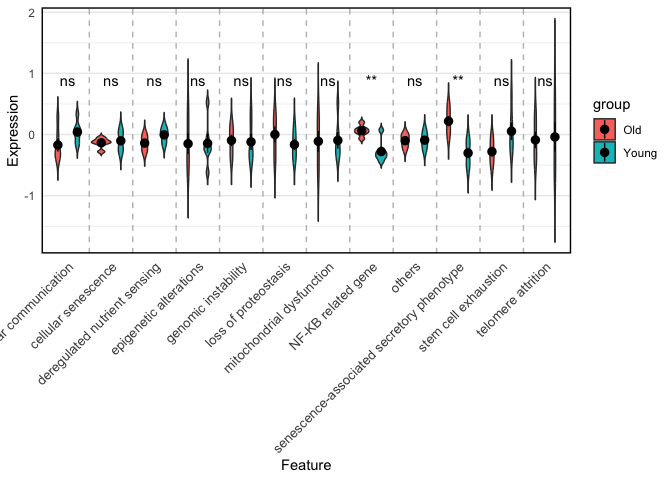
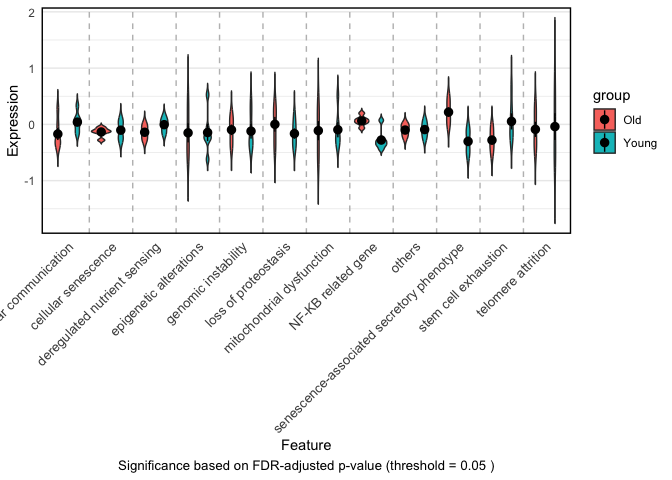
Added FDR correction function to the GSVA comparison

diff --git a/README.md b/README.md
@@ -38,9 +38,6 @@ devtools::install_github("dr-yi-zhang/seneR")
 ``` r
 library(seneR)
 env_Load() 
-#> [1] "Setting up virtual environment..."
-#> Using virtual environment 'myenv' ...
-#> [1] "Virtual environment setup and dependencies installed."
 ```
 
 ### Input RNA-seq data
